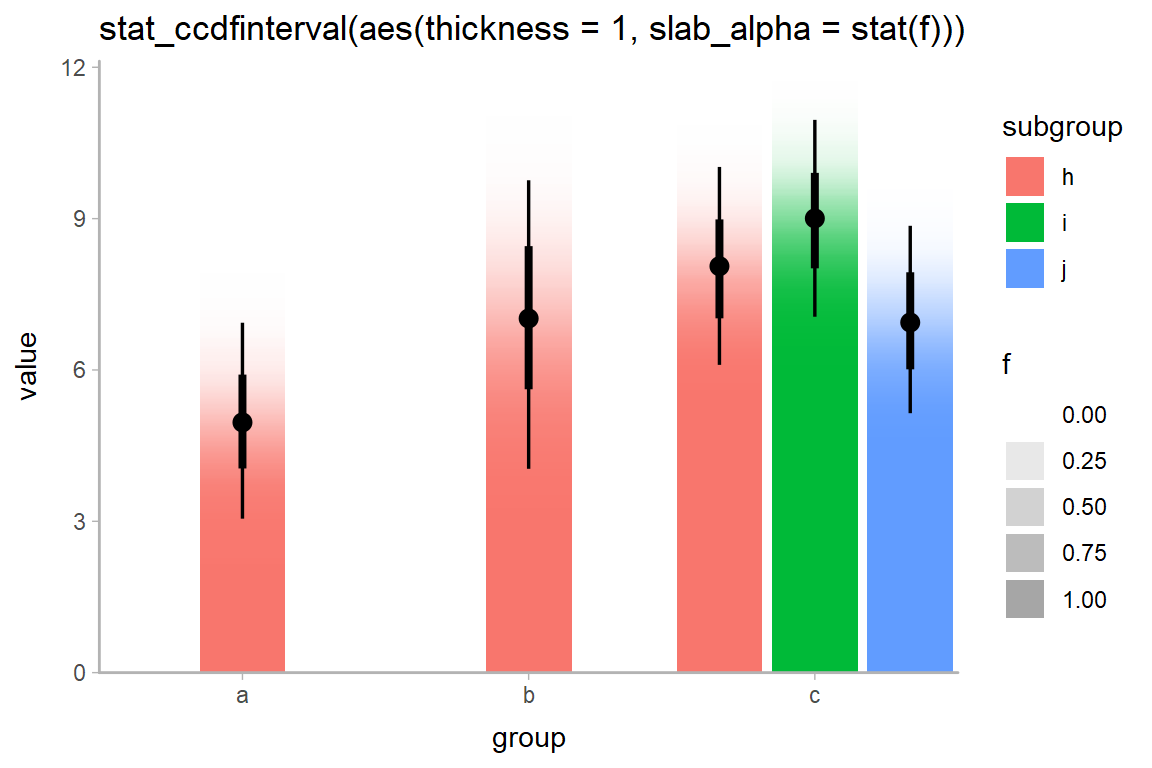
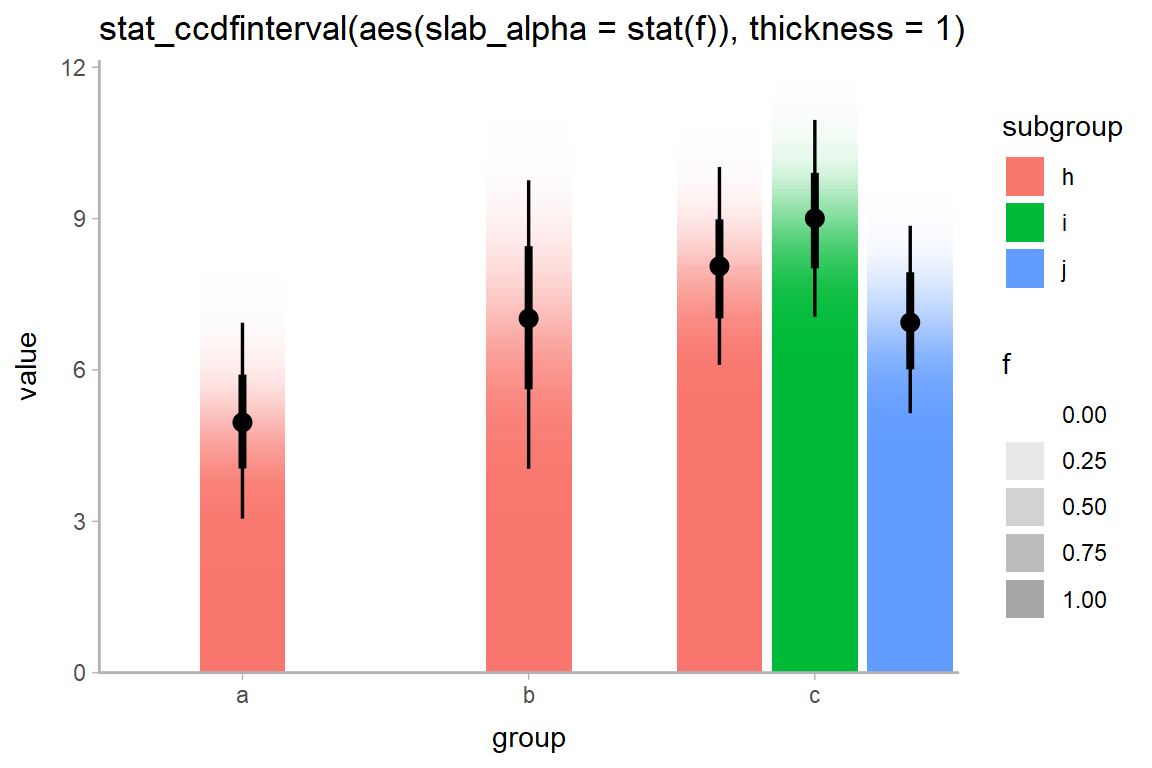
add dots to slabinterval vignette, closes #210

Changed region(s): [[0.375, 0.0, 0.8438, 0.0625]]

diff --git a/docs/articles/slabinterval.html b/docs/articles/slabinterval.html
@@ -108,7 +108,7 @@
       <h1>Slab + interval stats and geoms</h1>
                         <h4 class="author">Matthew Kay</h4>
             
-            <h4 class="date">2019-10-08</h4>
+            <h4 class="date">2019-10-09</h4>
       
       <small class="dont-index">Source: <a href="https://github.com/mjskay/tidybayes/blob/master/vignettes/slabinterval.Rmd"><code>vignettes/slabinterval.Rmd</code></a></small>
       <div class="hidden name"><code>slabinterval.Rmd</code></div>
@@ -419,7 +419,7 @@ img {
 <p><img src="slabinterval_files/figure-html/cdfinterval_family-1.png" width="576"></p>
 <p>The CCDF interval plots are probably more useful in general, as the bars typical grow up from the baseline. For example, replacing <code><a href="../reference/stat_sample_slabinterval.html">stat_eye()</a></code> with <code><a href="../reference/stat_sample_slabinterval.html">stat_ccdfinterval()</a></code> in our previous subgroup plot produces CCDF bar plots:</p>
 <div class="sourceCode" id="cb25"><pre class="sourceCode r"><code class="sourceCode r"><a class="sourceLine" id="cb25-1" title="1">df <span class="op">%&gt;%</span></a>
-<a class="sourceLine" id="cb25-2" title="2"><span class="st">  </span><span class="kw">ggplot</span>(<span class="kw">aes</span>(<span class="dt">x =</span> group, <span class="dt">y =</span> value, <span class="dt">fill =</span> subgroup)) <span class="op">+</span></a>
+<a class="sourceLine" id="cb25-2" title="2"><span class="st">  </span><span class="kw">ggplot</span>(<span class="kw">aes</span>(<span class="dt">x =</span> group, <span class="dt">y =</span> value, <span class="dt">fill =</span> subgroup, <span class="dt">group =</span> subgroup)) <span class="op">+</span></a>
 <a class="sourceLine" id="cb25-3" title="3"><span class="st">  </span><span class="kw"><a href="../reference/stat_sample_slabinterval.html">stat_ccdfinterval</a></span>(<span class="dt">position =</span> <span class="st">"dodge"</span>) <span class="op">+</span></a>
 <a class="sourceLine" id="cb25-4" title="4"><span class="st">  </span><span class="kw">ggtitle</span>(<span class="st">"stat_ccdfinterval(position = 'dodge')"</span>) </a></code></pre></div>
 <p><img src="slabinterval_files/figure-html/ccdf_barplot-1.png" width="576"></p>
@@ -485,7 +485,7 @@ img {
 <div id="gradient-plots" class="section level2">
 <h2 class="hasAnchor">
 <a href="#gradient-plots" class="anchor"></a>Gradient plots</h2>
-<p>Finally, an alternative approach to mapping density onto the <code>thickness</code> aesthetic of the slab is to instead map it onto its <code>alpha</code> value (i.e., opacity). This is what the <code>stat_[dist_]gradientinterval[h]</code> family does (actually, it uses <code>slab_alpha</code>, a variant of the <code>alpha</code> aesthetic).</p>
+<p>An alternative approach to mapping density onto the <code>thickness</code> aesthetic of the slab is to instead map it onto its <code>alpha</code> value (i.e., opacity). This is what the <code>stat_[dist_]gradientinterval[h]</code> family does (actually, it uses <code>slab_alpha</code>, a variant of the <code>alpha</code> aesthetic).</p>
 <div id="on-sample-data-stat_gradientintervalh" class="section level3">
 <h3 class="hasAnchor">
 <a href="#on-sample-data-stat_gradientintervalh" class="anchor"></a>On sample data: <code>stat_gradientinterval[h]</code>
@@ -520,6 +520,75 @@ img {
 </ul>
 </div>
 </div>
+<div id="dotplots" class="section level2">
+<h2 class="hasAnchor">
+<a href="#dotplots" class="anchor"></a>Dotplots</h2>
+<p>The encodings thus far are <em>continuous</em> probability encodings: they map probabilities or probability densities onto aesthetics like x/y position or transparency. An alternative is <em>discrete</em> or <em>frequency-framing</em> uncertainty visualizations, such as <em>dotplots</em> and <em>quantile dotplots</em>. These represent distributions as number of discrete possible outcomes.</p>
+<div id="on-sample-data-stat_dotsh" class="section level3">
+<h3 class="hasAnchor">
+<a href="#on-sample-data-stat_dotsh" class="anchor"></a>On sample data: <code>stat_dots[h]</code>
+</h3>
+<p>For example, replacing <code><a href="../reference/stat_sample_slabinterval.html">stat_halfeye()</a></code> with <code><a href="../reference/geom_dotsinterval.html">stat_dots()</a></code> produces dotplots:</p>
+<div class="sourceCode" id="cb32"><pre class="sourceCode r"><code class="sourceCode r"><a class="sourceLine" id="cb32-1" title="1">df <span class="op">%&gt;%</span></a>
+<a class="sourceLine" id="cb32-2" title="2"><span class="st">  </span><span class="kw">ggplot</span>(<span class="kw">aes</span>(<span class="dt">x =</span> group, <span class="dt">y =</span> value, <span class="dt">fill =</span> subgroup)) <span class="op">+</span></a>
+<a class="sourceLine" id="cb32-3" title="3"><span class="st">  </span><span class="kw"><a href="../reference/geom_dotsinterval.html">stat_dots</a></span>(<span class="dt">position =</span> <span class="st">"dodge"</span>) <span class="op">+</span></a>
+<a class="sourceLine" id="cb32-4" title="4"><span class="st">  </span><span class="kw">labs</span>(<span class="dt">title =</span> <span class="st">"stat_dots(position = 'dodge')"</span>)</a></code></pre></div>
+<p><img src="slabinterval_files/figure-html/dots_dodge-1.png" width="576"></p>
+<p>Unlike the base <code><a href="https://ggplot2.tidyverse.org/reference/geom_dotplot.html">ggplot2::geom_dotplot()</a></code> geom, <code><a href="../reference/geom_dotsinterval.html">tidybayes::geom_dots()</a></code> automatically determines a bin width to ensure that the dot stacks fit within the available space. With so few dots here, it makes sense to turn off the outline color (<code>slab_color</code>) of the dots:</p>
+<div class="sourceCode" id="cb33"><pre class="sourceCode r"><code class="sourceCode r"><a class="sourceLine" id="cb33-1" title="1">df <span class="op">%&gt;%</span></a>
+<a class="sourceLine" id="cb33-2" title="2"><span class="st">  </span><span class="kw">ggplot</span>(<span class="kw">aes</span>(<span class="dt">x =</span> group, <span class="dt">y =</span> value, <span class="dt">fill =</span> subgroup)) <span class="op">+</span></a>
+<a class="sourceLine" id="cb33-3" title="3"><span class="st">  </span><span class="kw"><a href="../reference/geom_dotsinterval.html">stat_dots</a></span>(<span class="dt">position =</span> <span class="st">"dodge"</span>, <span class="dt">slab_color =</span> <span class="ot">NA</span>) <span class="op">+</span></a>
+<a class="sourceLine" id="cb33-4" title="4"><span class="st">  </span><span class="kw">labs</span>(<span class="dt">title =</span> <span class="st">"stat_dots(slab_color = NA)"</span>)</a></code></pre></div>
+<p><img src="slabinterval_files/figure-html/dots_dodge_nocolor-1.png" width="576"></p>
+</div>
+<div id="quantile-dotplots" class="section level3">
+<h3 class="hasAnchor">
+<a href="#quantile-dotplots" class="anchor"></a>Quantile dotplots</h3>
+<p>The above plots are a bit hard to read due to the large number of dots. Particularly when summarizing posterior distributions or predictive distributions, it can make sense to plot a smaller number of dots (say 20, 50 or 100) that are <em>representative</em> of the full sample. One such approach is to plot <em>quantiles</em>, thereby creating <em>quantile dotplots</em>, which can help people make decisions under uncertainty (<a href="https://doi.org/10.1145/2858036.2858558">Kay 2016</a>, <a href="https://doi.org/10.1145/3173574.3173718">Fernandes 2018</a>).</p>
+<p>The <code>quantiles</code> argument to <code>stat_dots</code> constructs a quantile dotplot with the specified number of quantiles. Here is one with 50 quantiles, so each dot represents approximately a 2% (1/50) chance:</p>
+<div class="sourceCode" id="cb34"><pre class="sourceCode r"><code class="sourceCode r"><a class="sourceLine" id="cb34-1" title="1">df <span class="op">%&gt;%</span></a>
+<a class="sourceLine" id="cb34-2" title="2"><span class="st">  </span><span class="kw">ggplot</span>(<span class="kw">aes</span>(<span class="dt">x =</span> group, <span class="dt">y =</span> value, <span class="dt">fill =</span> subgroup)) <span class="op">+</span></a>
+<a class="sourceLine" id="cb34-3" title="3"><span class="st">  </span><span class="kw"><a href="../reference/geom_dotsinterval.html">stat_dots</a></span>(<span class="dt">position =</span> <span class="st">"dodge"</span>, <span class="dt">quantiles =</span> <span class="dv">50</span>) <span class="op">+</span></a>
+<a class="sourceLine" id="cb34-4" title="4"><span class="st">  </span><span class="kw">labs</span>(<span class="dt">title =</span> <span class="st">"stat_dots(quantiles = 50)"</span>)</a></code></pre></div>
+<p><img src="slabinterval_files/figure-html/quantile_dots_dodge-1.png" width="576"></p>
+</div>
+<div id="on-analytical-distributions-stat_dist_dotsh" class="section level3">
+<h3 class="hasAnchor">
+<a href="#on-analytical-distributions-stat_dist_dotsh" class="anchor"></a>On analytical distributions: <code>stat_dist_dots[h]</code>
+</h3>
+<p>As with other plot types, you can also use <code><a href="../reference/geom_dotsinterval.html">stat_dist_dots()</a></code> instead if you wish to visualize analytical distributions. Analytical dotplots default to 100-dot quantile dotplots (as above, this can be adjusted with the <code>quantiles</code> argument):</p>
+<div class="sourceCode" id="cb35"><pre class="sourceCode r"><code class="sourceCode r"><a class="sourceLine" id="cb35-1" title="1">dist_df <span class="op">%&gt;%</span></a>
+<a class="sourceLine" id="cb35-2" title="2"><span class="st">  </span><span class="kw">ggplot</span>(<span class="kw">aes</span>(<span class="dt">x =</span> group, <span class="dt">dist =</span> <span class="st">"norm"</span>, <span class="dt">arg1 =</span> mean, <span class="dt">arg2 =</span> sd, <span class="dt">fill =</span> subgroup)) <span class="op">+</span></a>
+<a class="sourceLine" id="cb35-3" title="3"><span class="st">  </span><span class="kw"><a href="../reference/geom_dotsinterval.html">stat_dist_dots</a></span>(<span class="dt">position =</span> <span class="st">"dodge"</span>) <span class="op">+</span></a>
+<a class="sourceLine" id="cb35-4" title="4"><span class="st">  </span><span class="kw">labs</span>(<span class="dt">title =</span> <span class="st">"stat_dist_dots(position = 'dodge')"</span>)</a></code></pre></div>
+<p><img src="slabinterval_files/figure-html/dist_dots_dodge-1.png" width="576"></p>
+<p>Shapes of the dots can also be changed using the <code>shape</code> aesthetic, and as with all slabinterval geoms, fill and color aesthetics can be varied within the geoms:</p>
+<div class="sourceCode" id="cb36"><pre class="sourceCode r"><code class="sourceCode r"><a class="sourceLine" id="cb36-1" title="1">dist_df <span class="op">%&gt;%</span></a>
+<a class="sourceLine" id="cb36-2" title="2"><span class="st">  </span><span class="kw">ggplot</span>(<span class="kw">aes</span>(<span class="dt">x =</span> group, <span class="dt">dist =</span> <span class="st">"norm"</span>, <span class="dt">arg1 =</span> mean, <span class="dt">arg2 =</span> sd, <span class="dt">fill =</span> <span class="kw">stat</span>(y <span class="op">&lt;</span><span class="st"> </span><span class="dv">5</span>), <span class="dt">shape =</span> subgroup)) <span class="op">+</span></a>
+<a class="sourceLine" id="cb36-3" title="3"><span class="st">  </span><span class="kw"><a href="../reference/geom_dotsinterval.html">stat_dist_dots</a></span>(<span class="dt">position =</span> <span class="st">"dodge"</span>) <span class="op">+</span></a>
+<a class="sourceLine" id="cb36-4" title="4"><span class="st">  </span><span class="kw">labs</span>(<span class="dt">title =</span> <span class="st">"stat_dist_dots(aes(fill = stat(y &lt; 5), shape = subgroup))"</span>) <span class="op">+</span></a>
+<a class="sourceLine" id="cb36-5" title="5"><span class="st">  </span><span class="co"># we'll use these shapes since they retain outlines</span></a>
+<a class="sourceLine" id="cb36-6" title="6"><span class="st">  </span><span class="kw">scale_shape_manual</span>(<span class="dt">values =</span> <span class="kw"><a href="https://rdrr.io/r/base/c.html">c</a></span>(<span class="dv">21</span>,<span class="dv">22</span>,<span class="dv">23</span>))</a></code></pre></div>
+<p><img src="slabinterval_files/figure-html/dist_dots_shape_color-1.png" width="576"></p>
+<p>As with other slabinterval geoms, the <code>side</code> argument can also be used to construct violin-style dotplots. This example also shows the use of <code>dotsinterval</code> in place of <code>dots</code> to construct a combined quantile dotplot violin + interval plot. We also set <code>slab_color = NA</code> to turn off the outline on the dots:</p>
+<div class="sourceCode" id="cb37"><pre class="sourceCode r"><code class="sourceCode r"><a class="sourceLine" id="cb37-1" title="1">dist_df <span class="op">%&gt;%</span></a>
+<a class="sourceLine" id="cb37-2" title="2"><span class="st">  </span><span class="kw">ggplot</span>(<span class="kw">aes</span>(<span class="dt">x =</span> group, <span class="dt">dist =</span> <span class="st">"norm"</span>, <span class="dt">arg1 =</span> mean, <span class="dt">arg2 =</span> sd, <span class="dt">fill =</span> subgroup)) <span class="op">+</span></a>
+<a class="sourceLine" id="cb37-3" title="3"><span class="st">  </span><span class="kw"><a href="../reference/geom_dotsinterval.html">stat_dist_dotsinterval</a></span>(<span class="dt">position =</span> <span class="st">"dodge"</span>, <span class="dt">side =</span> <span class="st">"both"</span>, <span class="dt">slab_color =</span> <span class="ot">NA</span>) <span class="op">+</span></a>
+<a class="sourceLine" id="cb37-4" title="4"><span class="st">  </span><span class="kw">labs</span>(<span class="dt">title =</span> <span class="st">"stat_dist_dotsinterval(side = 'both', slab_color = NA)"</span>) </a></code></pre></div>
+<p><img src="slabinterval_files/figure-html/dist_dots_violin-1.png" width="576"></p>
+</div>
+<div id="summing-up-dotplots-stat_dist_dotsintervalh" class="section level3">
+<h3 class="hasAnchor">
+<a href="#summing-up-dotplots-stat_dist_dotsintervalh" class="anchor"></a>Summing up dotplots: <code>stat_[dist_]dots[interval][h]</code>
+</h3>
+<p>All of the above geoms follow the naming scheme <code>stat_[dist_]dots[interval][h]</code>.</p>
+<ul>
+<li>Add <code>dist_</code> to the name to get stats for analytical distributions (otherwise it is for sample data).</li>
+<li>Add <code>interval</code> to the name to get the version with a point+interval geom overlaid.</li>
+<li>Add <code>h</code> to the name to get the horizontal version.</li>
+</ul>
+</div>
+</div>
 <div id="custom-plots" class="section level2">
 <h2 class="hasAnchor">
 <a href="#custom-plots" class="anchor"></a>Custom plots</h2>
@@ -533,45 +602,45 @@ img {
 <h3 class="hasAnchor">
 <a href="#ccdf-gradients" class="anchor"></a>CCDF Gradients</h3>
 <p>For example, <code>stat_ccdfinterval</code> maps the output of the evaluated function (in its case, the CCDF) onto the <code>thickness</code> aesthetic of the <code>slabinterval</code> geom, which determines how thick the slab is. This is the equivalent of setting <code>aes(thickness = stat(f))</code>. However, we could instead create a CCDF gradient plot, a sort of mashup of a CCDF barplot and a density gradient plot, by mapping <code>stat(f)</code> onto the <code>slab_alpha</code> aesthetic instead, and setting <code>thickness</code> to a constant (1):</p>
-<div class="sourceCode" id="cb32"><pre class="sourceCode r"><code class="sourceCode r"><a class="sourceLine" id="cb32-1" title="1">df <span class="op">%&gt;%</span></a>
-<a class="sourceLine" id="cb32-2" title="2"><span class="st">  </span><span class="kw">ggplot</span>(<span class="kw">aes</span>(<span class="dt">x =</span> group, <span class="dt">y =</span> value, <span class="dt">fill =</span> subgroup)) <span class="op">+</span></a>
-<a class="sourceLine" id="cb32-3" title="3"><span class="st">  </span><span class="kw"><a href="../reference/stat_sample_slabinterval.html">stat_ccdfinterval</a></span>(<span class="kw">aes</span>(<span class="dt">thickness =</span> <span class="dv">1</span>, <span class="dt">slab_alpha =</span> <span class="kw">stat</span>(f)), <span class="dt">position =</span> <span class="st">"dodge"</span>) <span class="op">+</span></a>
-<a class="sourceLine" id="cb32-4" title="4"><span class="st">  </span><span class="kw">expand_limits</span>(<span class="dt">y =</span> <span class="dv">0</span>) <span class="op">+</span></a>
-<a class="sourceLine" id="cb32-5" title="5"><span class="st">  </span><span class="co"># plus coord_cartesian so there is no space between bars and axis</span></a>
-<a class="sourceLine" id="cb32-6" title="6"><span class="st">  </span><span class="kw">coord_cartesian</span>(<span class="dt">expand =</span> <span class="ot">FALSE</span>) <span class="op">+</span></a>
-<a class="sourceLine" id="cb32-7" title="7"><span class="st">  </span><span class="kw">ggtitle</span>(<span class="st">"stat_ccdfinterval(aes(thickness = 1, slab_alpha = stat(f)))"</span>)</a></code></pre></div>
+<div class="sourceCode" id="cb38"><pre class="sourceCode r"><code class="sourceCode r"><a class="sourceLine" id="cb38-1" title="1">df <span class="op">%&gt;%</span></a>
+<a class="sourceLine" id="cb38-2" title="2"><span class="st">  </span><span class="kw">ggplot</span>(<span class="kw">aes</span>(<span class="dt">x =</span> group, <span class="dt">y =</span> value, <span class="dt">fill =</span> subgroup)) <span class="op">+</span></a>
+<a class="sourceLine" id="cb38-3" title="3"><span class="st">  </span><span class="kw"><a href="../reference/stat_sample_slabinterval.html">stat_ccdfinterval</a></span>(<span class="kw">aes</span>(<span class="dt">slab_alpha =</span> <span class="kw">stat</span>(f)), <span class="dt">thickness =</span> <span class="dv">1</span>, <span class="dt">position =</span> <span class="st">"dodge"</span>) <span class="op">+</span></a>
+<a class="sourceLine" id="cb38-4" title="4"><span class="st">  </span><span class="kw">expand_limits</span>(<span class="dt">y =</span> <span class="dv">0</span>) <span class="op">+</span></a>
+<a class="sourceLine" id="cb38-5" title="5"><span class="st">  </span><span class="co"># plus coord_cartesian so there is no space between bars and axis</span></a>
+<a class="sourceLine" id="cb38-6" title="6"><span class="st">  </span><span class="kw">coord_cartesian</span>(<span class="dt">expand =</span> <span class="ot">FALSE</span>) <span class="op">+</span></a>
+<a class="sourceLine" id="cb38-7" title="7"><span class="st">  </span><span class="kw">ggtitle</span>(<span class="st">"stat_ccdfinterval(aes(slab_alpha = stat(f)), thickness = 1)"</span>)</a></code></pre></div>
 <p><img src="slabinterval_files/figure-html/ccdf_gradient-1.png" width="576"></p>
 </div>
 <div id="highlighting-and-other-combinations" class="section level3">
 <h3 class="hasAnchor">
 <a href="#highlighting-and-other-combinations" class="anchor"></a>Highlighting and other combinations</h3>
 <p>The ability to map arbitrary variables onto fill or outline colors within a slab allows you to easily highlight subregions of a plot. Take the earlier example of visualizing priors:</p>
-<div class="sourceCode" id="cb33"><pre class="sourceCode r"><code class="sourceCode r"><a class="sourceLine" id="cb33-1" title="1">priors =<span class="st"> </span><span class="kw">tribble</span>(</a>
-<a class="sourceLine" id="cb33-2" title="2">  <span class="op">~</span><span class="st"> </span>dist,      <span class="op">~</span><span class="st"> </span>args,</a>
-<a class="sourceLine" id="cb33-3" title="3">  <span class="st">"norm"</span>,      <span class="kw"><a href="https://rdrr.io/r/base/list.html">list</a></span>(<span class="dv">0</span>, <span class="dv">1</span>),</a>
-<a class="sourceLine" id="cb33-4" title="4">  <span class="st">"student_t"</span>, <span class="kw"><a href="https://rdrr.io/r/base/list.html">list</a></span>(<span class="dv">3</span>, <span class="dv">0</span>, <span class="dv">1</span>)</a>
-<a class="sourceLine" id="cb33-5" title="5">) </a>
-<a class="sourceLine" id="cb33-6" title="6"></a>
-<a class="sourceLine" id="cb33-7" title="7">priors <span class="op">%&gt;%</span></a>
-<a class="sourceLine" id="cb33-8" title="8"><span class="st">  </span><span class="kw">ggplot</span>(<span class="kw">aes</span>(<span class="dt">y =</span> dist, <span class="dt">dist =</span> dist, <span class="dt">args =</span> args)) <span class="op">+</span></a>
-<a class="sourceLine" id="cb33-9" title="9"><span class="st">  </span><span class="kw"><a href="../reference/stat_dist_slabinterval.html">stat_dist_halfeyeh</a></span>() <span class="op">+</span></a>
-<a class="sourceLine" id="cb33-10" title="10"><span class="st">  </span><span class="kw">ggtitle</span>(<span class="st">"stat_dist_halfeyeh()"</span>)</a></code></pre></div>
+<div class="sourceCode" id="cb39"><pre class="sourceCode r"><code class="sourceCode r"><a class="sourceLine" id="cb39-1" title="1">priors =<span class="st"> </span><span class="kw">tribble</span>(</a>
+<a class="sourceLine" id="cb39-2" title="2">  <span class="op">~</span><span class="st"> </span>dist,      <span class="op">~</span><span class="st"> </span>args,</a>
+<a class="sourceLine" id="cb39-3" title="3">  <span class="st">"norm"</span>,      <span class="kw"><a href="https://rdrr.io/r/base/list.html">list</a></span>(<span class="dv">0</span>, <span class="dv">1</span>),</a>
+<a class="sourceLine" id="cb39-4" title="4">  <span class="st">"student_t"</span>, <span class="kw"><a href="https://rdrr.io/r/base/list.html">list</a></span>(<span class="dv">3</span>, <span class="dv">0</span>, <span class="dv">1</span>)</a>
+<a class="sourceLine" id="cb39-5" title="5">) </a>
+<a class="sourceLine" id="cb39-6" title="6"></a>
+<a class="sourceLine" id="cb39-7" title="7">priors <span class="op">%&gt;%</span></a>
+<a class="sourceLine" id="cb39-8" title="8"><span class="st">  </span><span class="kw">ggplot</span>(<span class="kw">aes</span>(<span class="dt">y =</span> dist, <span class="dt">dist =</span> dist, <span class="dt">args =</span> args)) <span class="op">+</span></a>
+<a class="sourceLine" id="cb39-9" title="9"><span class="st">  </span><span class="kw"><a href="../reference/stat_dist_slabinterval.html">stat_dist_halfeyeh</a></span>() <span class="op">+</span></a>
+<a class="sourceLine" id="cb39-10" title="10"><span class="st">  </span><span class="kw">ggtitle</span>(<span class="st">"stat_dist_halfeyeh()"</span>)</a></code></pre></div>
 <p><img src="slabinterval_files/figure-html/norm_vs_t_2-1.png" width="576"></p>
 <p>We can add a mapping to the <code>fill</code> aesthetic to highlight a region of interest, say ±1.5:</p>
-<div class="sourceCode" id="cb34"><pre class="sourceCode r"><code class="sourceCode r"><a class="sourceLine" id="cb34-1" title="1">priors <span class="op">%&gt;%</span></a>
-<a class="sourceLine" id="cb34-2" title="2"><span class="st">  </span><span class="kw">ggplot</span>(<span class="kw">aes</span>(<span class="dt">y =</span> dist, <span class="dt">dist =</span> dist, <span class="dt">args =</span> args)) <span class="op">+</span></a>
-<a class="sourceLine" id="cb34-3" title="3"><span class="st">  </span><span class="kw"><a href="../reference/stat_dist_slabinterval.html">stat_dist_halfeyeh</a></span>(<span class="kw">aes</span>(<span class="dt">fill =</span> <span class="kw">stat</span>(<span class="kw"><a href="https://rdrr.io/r/base/MathFun.html">abs</a></span>(x) <span class="op">&lt;</span><span class="st"> </span><span class="fl">1.5</span>))) <span class="op">+</span></a>
-<a class="sourceLine" id="cb34-4" title="4"><span class="st">  </span><span class="kw">ggtitle</span>(<span class="st">"stat_dist_halfeyeh(aes(fill = stat(abs(x) &lt; 1.5)))"</span>) <span class="op">+</span></a>
-<a class="sourceLine" id="cb34-5" title="5"><span class="st">  </span><span class="co"># we'll use a nicer palette than the default for highlighting:</span></a>
-<a class="sourceLine" id="cb34-6" title="6"><span class="st">  </span><span class="kw">scale_fill_manual</span>(<span class="dt">values =</span> <span class="kw"><a href="https://rdrr.io/r/base/c.html">c</a></span>(<span class="st">"gray85"</span>, <span class="st">"skyblue"</span>))</a></code></pre></div>
+<div class="sourceCode" id="cb40"><pre class="sourceCode r"><code class="sourceCode r"><a class="sourceLine" id="cb40-1" title="1">priors <span class="op">%&gt;%</span></a>
+<a class="sourceLine" id="cb40-2" title="2"><span class="st">  </span><span class="kw">ggplot</span>(<span class="kw">aes</span>(<span class="dt">y =</span> dist, <span class="dt">dist =</span> dist, <span class="dt">args =</span> args)) <span class="op">+</span></a>
+<a class="sourceLine" id="cb40-3" title="3"><span class="st">  </span><span class="kw"><a href="../reference/stat_dist_slabinterval.html">stat_dist_halfeyeh</a></span>(<span class="kw">aes</span>(<span class="dt">fill =</span> <span class="kw">stat</span>(<span class="kw"><a href="https://rdrr.io/r/base/MathFun.html">abs</a></span>(x) <span class="op">&lt;</span><span class="st"> </span><span class="fl">1.5</span>))) <span class="op">+</span></a>
+<a class="sourceLine" id="cb40-4" title="4"><span class="st">  </span><span class="kw">ggtitle</span>(<span class="st">"stat_dist_halfeyeh(aes(fill = stat(abs(x) &lt; 1.5)))"</span>) <span class="op">+</span></a>
+<a class="sourceLine" id="cb40-5" title="5"><span class="st">  </span><span class="co"># we'll use a nicer palette than the default for highlighting:</span></a>
+<a class="sourceLine" id="cb40-6" title="6"><span class="st">  </span><span class="kw">scale_fill_manual</span>(<span class="dt">values =</span> <span class="kw"><a href="https://rdrr.io/r/base/c.html">c</a></span>(<span class="st">"gray85"</span>, <span class="st">"skyblue"</span>))</a></code></pre></div>
 <p><img src="slabinterval_files/figure-html/norm_vs_t_highlight-1.png" width="576"></p>
 <p>We could also combine these aesthetics arbitrarily. Here is a (probably not very useful) eye plot + gradient plot combination, with the portion of the distribution above 1 highlighted:</p>
-<div class="sourceCode" id="cb35"><pre class="sourceCode r"><code class="sourceCode r"><a class="sourceLine" id="cb35-1" title="1">priors <span class="op">%&gt;%</span></a>
-<a class="sourceLine" id="cb35-2" title="2"><span class="st">  </span><span class="kw">ggplot</span>(<span class="kw">aes</span>(<span class="dt">y =</span> dist, <span class="dt">dist =</span> dist, <span class="dt">args =</span> args)) <span class="op">+</span></a>
-<a class="sourceLine" id="cb35-3" title="3"><span class="st">  </span><span class="kw"><a href="../reference/stat_dist_slabinterval.html">stat_dist_eyeh</a></span>(<span class="kw">aes</span>(<span class="dt">alpha =</span> <span class="kw">stat</span>(f), <span class="dt">fill =</span> <span class="kw">stat</span>(x <span class="op">&gt;</span><span class="st"> </span><span class="dv">1</span>))) <span class="op">+</span></a>
-<a class="sourceLine" id="cb35-4" title="4"><span class="st">  </span><span class="kw">ggtitle</span>(<span class="st">"stat_dist_eyeh(aes(alpha = stat(f), fill = stat(x &gt; 1)))"</span>) <span class="op">+</span></a>
-<a class="sourceLine" id="cb35-5" title="5"><span class="st">  </span><span class="co"># we'll use a nicer palette than the default for highlighting:</span></a>
-<a class="sourceLine" id="cb35-6" title="6"><span class="st">  </span><span class="kw">scale_fill_manual</span>(<span class="dt">values =</span> <span class="kw"><a href="https://rdrr.io/r/base/c.html">c</a></span>(<span class="st">"gray75"</span>, <span class="st">"skyblue"</span>))</a></code></pre></div>
+<div class="sourceCode" id="cb41"><pre class="sourceCode r"><code class="sourceCode r"><a class="sourceLine" id="cb41-1" title="1">priors <span class="op">%&gt;%</span></a>
+<a class="sourceLine" id="cb41-2" title="2"><span class="st">  </span><span class="kw">ggplot</span>(<span class="kw">aes</span>(<span class="dt">y =</span> dist, <span class="dt">dist =</span> dist, <span class="dt">args =</span> args)) <span class="op">+</span></a>
+<a class="sourceLine" id="cb41-3" title="3"><span class="st">  </span><span class="kw"><a href="../reference/stat_dist_slabinterval.html">stat_dist_eyeh</a></span>(<span class="kw">aes</span>(<span class="dt">alpha =</span> <span class="kw">stat</span>(f), <span class="dt">fill =</span> <span class="kw">stat</span>(x <span class="op">&gt;</span><span class="st"> </span><span class="dv">1</span>))) <span class="op">+</span></a>
+<a class="sourceLine" id="cb41-4" title="4"><span class="st">  </span><span class="kw">ggtitle</span>(<span class="st">"stat_dist_eyeh(aes(alpha = stat(f), fill = stat(x &gt; 1)))"</span>) <span class="op">+</span></a>
+<a class="sourceLine" id="cb41-5" title="5"><span class="st">  </span><span class="co"># we'll use a nicer palette than the default for highlighting:</span></a>
+<a class="sourceLine" id="cb41-6" title="6"><span class="st">  </span><span class="kw">scale_fill_manual</span>(<span class="dt">values =</span> <span class="kw"><a href="https://rdrr.io/r/base/c.html">c</a></span>(<span class="st">"gray75"</span>, <span class="st">"skyblue"</span>))</a></code></pre></div>
 <p><img src="slabinterval_files/figure-html/norm_vs_t_gradient_eye-1.png" width="576"></p>
 </div>
 </div>
@@ -590,6 +659,7 @@ img {
       <li><a href="#histogram-interval-plots">Histogram + interval plots</a></li>
       <li><a href="#ccdf-bar-plots">CCDF bar plots</a></li>
       <li><a href="#gradient-plots">Gradient plots</a></li>
+      <li><a href="#dotplots">Dotplots</a></li>
       <li><a href="#custom-plots">Custom plots</a></li>
       </ul>
 </div>
